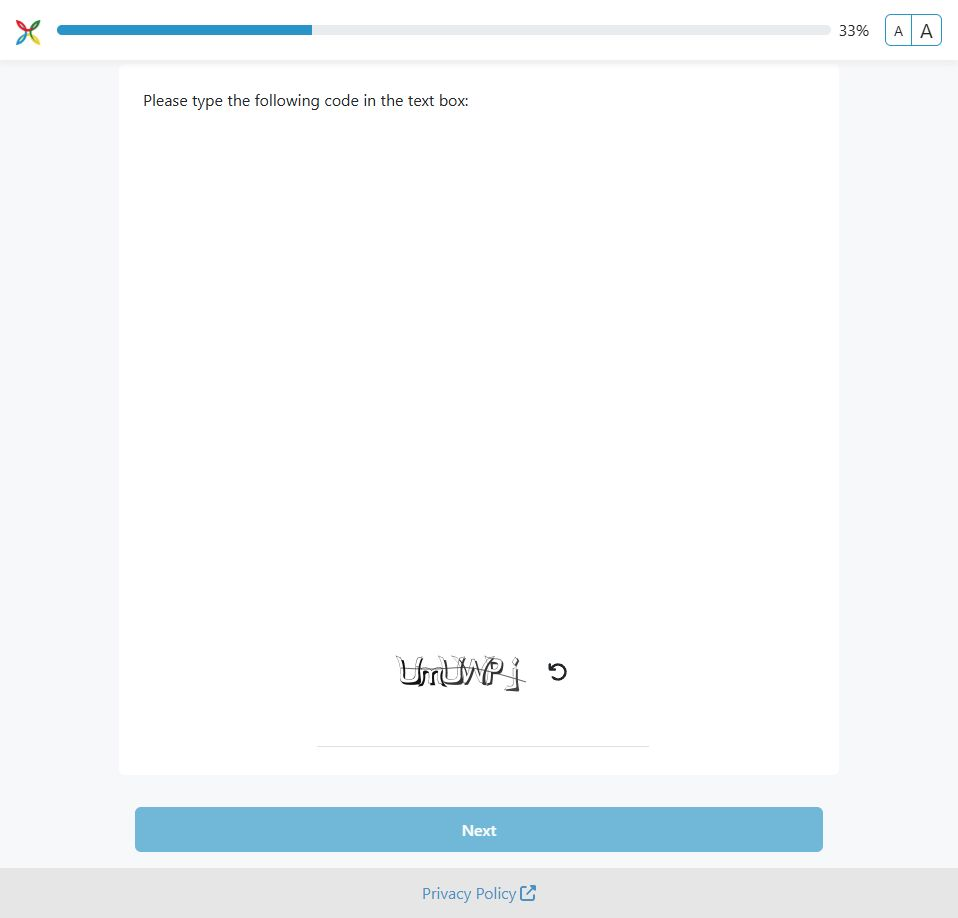
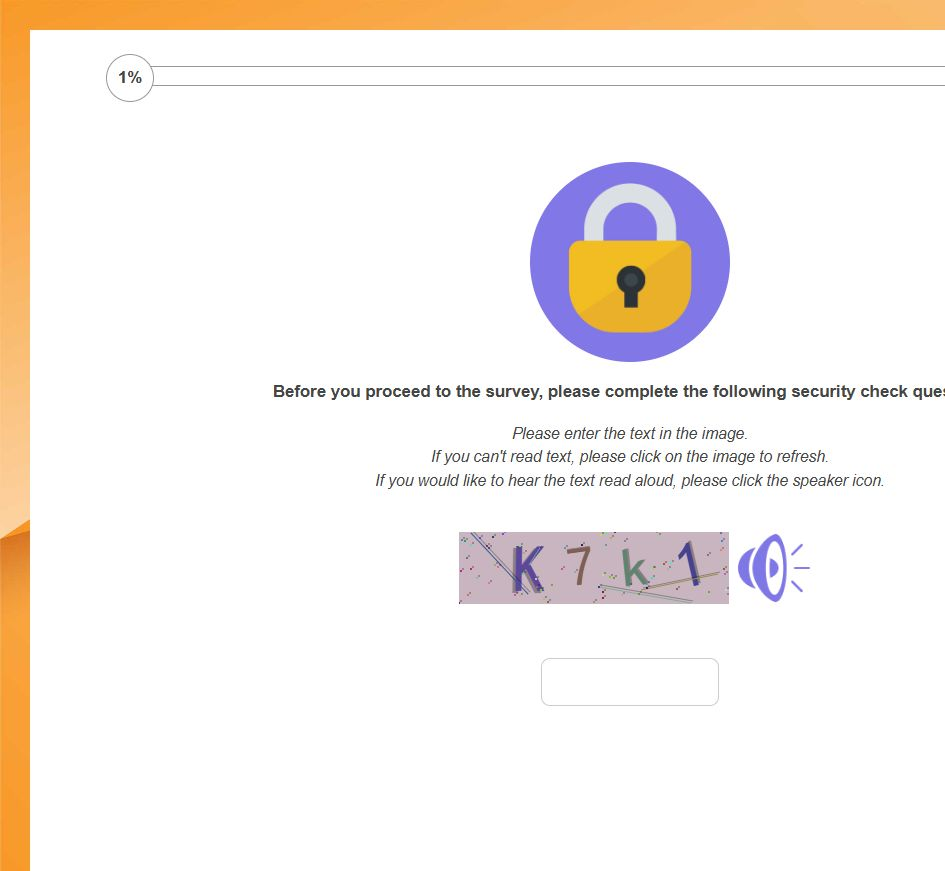
fixed f-string bug, enhanced formatting eedback loop

diff --git a/error_handling/CAPTCHA_solve.py b/error_handling/CAPTCHA_solve.py
@@ -35,6 +35,9 @@ async def identify_captcha(ai_key, session):
     2. Identify if there is a CAPTCHA, and if so, what type of captcha is present.
     3. Exit and output with a return code as below
 
+    #CONSTRAINTS:
+    Do not scroll, click on any button, or navigate in any way. Your goal is only to identify any captcha in the currently visible browser page.
+
     #RETRUN CODES:
     - 0: No CAPTCHA challenge available.
     - 1: Normal Captcha (Distorted text on image)
@@ -49,7 +52,7 @@ async def identify_captcha(ai_key, session):
     tools_available = format_tools_advertisement((await session.list_tools()).tools)
     while True:
         chat = client.chat.completions.create(
-            model = "deepseek/deepseek-v4-flash",
+            model = "openai/gpt-oss-120b",
             messages = messages,
             tools=tools_available,
             tool_choice="auto"
@@ -109,7 +112,7 @@ async def solve_drag_drop_captcha(api_key): #need toolos: readfile (bytes)
 
     while True:
         chat = client.chat.completions.create(
-            model = "deepseek/deepseek-v4-flash",
+            model = "openai/gpt-oss-120b",
             messages = messages,
             tools= {"type":"function",
                     "function":{
@@ -144,8 +147,8 @@ async def solve_drag_drop_captcha(api_key): #need toolos: readfile (bytes)
                     middle, _ = back.split("`")
                     return str(middle)
                 
-                messages.append({"role":"user","content":"""Ouptut must be in JSON format of {"start_position":{"x":int, "y":int},
-                     "end_position":{"x":int, "y":int}} only"""})
+                messages.append({"role":"user","content":f"""Ouptut must be in JSON format of {{"start_position":{{"x":int, "y":int}},
+                     "end_position":{{"x":int, "y":int}}}} only, previous output was of type {type(output)}"""})
                 print(output)
                 print("Drag-Drop Agent Failed to Format. Retrying...")
                 continue
@@ -154,7 +157,9 @@ async def solve_drag_drop_captcha(api_key): #need toolos: readfile (bytes)
             print("Answer Submission (Interface) Agent Called Tool: %s"%tool_name)
             arguments = json.loads(tool_calls[0].function.arguments)
             if tool_name == "ReadFile":
-                pass #CRITICAL: TO EDIT
+                with open(arguments["file_path"], "r") as image_file:
+                    content = image_file.read()
+                messages.append({"role":"tool","tool_call_id":tool_calls[0].id, "content":content})
 
 async def solve_captcha_auto(captcha_key, ai_key, session, captcha_type):
     solver = TwoCaptcha(captcha_key)
@@ -195,14 +200,14 @@ async def solve_captcha_auto(captcha_key, ai_key, session, captcha_type):
 
     #OUTPUT:
     Return ONLY a valid JSON object:
-    {"return_code":int}
+    {{"return_code":int}}
     **Do not provide commentary or explanations.**
 """},
     {"role":"user","content":result}]
     tools_available = format_tools_advertisement((await session.list_tools()).tools)
     while True:
         chat = client.chat.completions.create(
-            model = "deepseek/deepseek-v4-flash",
+            model = "openai/gpt-oss-120b",
             messages = messages,
             tools=tools_available,
             tool_choice="auto"
@@ -217,7 +222,7 @@ async def solve_captcha_auto(captcha_key, ai_key, session, captcha_type):
             try:
                 model_output = int(json.loads(chat.choices[0].message.content).get("return_code"))
             except:
-                messages.append({"role":"user","content":"""Output must be in JSON format of {"return_code":int} only!"""})
+                messages.append({"role":"user","content":f"""Output must be in JSON format of {{"return_code":int}} only, previous output was of type {type(model_output)}!"""})
                 print("CAPTCHA Solver Agent Failed to Format. Retrying...")
                 continue
 

diff --git a/interface/interface_agent.py b/interface/interface_agent.py
@@ -71,7 +71,7 @@ async def submit_answer(answer, session, api_key): #the answer variable is a lis
                     middle, _ = back.split("`")
                     return_code = int(ast.literal_eval(middle).get("return code"))
                     return return_code
-                messages.append({"role":"user","content":"""Ouptut must be in JSON format of {"return code":str} only"""})
+                messages.append({"role":"user","content":f"""Ouptut must be in JSON format of {{"return code":str}} only, previous output was of type {type(output)}"""})
                 print(output)
                 print("Answer Submission Agent Failed to Format. Retrying...")
                 continue
@@ -142,7 +142,7 @@ async def extract_question(api_key, session):
             try:
                 model_output = json.loads(chat.choices[0].message.content)
             except:
-                messages.append({"role":"user","content":"""Output must be in JSON format of {"question":str, "type":str,"options": list or null} only!"""})
+                messages.append({"role":"user","content":f"""Output must be in JSON format of {{"question":str, "type":str,"options": list or null}} only, previous output was of type {type(model_output)}!"""})
                 print("Question Extractor Agent Failed to Format. Retrying...")
                 continue
             return model_output

diff --git a/main.py b/main.py
@@ -1,8 +1,8 @@
 #environment variable names are captchaAPIkey and openRouterAPIkey
 
 import sys
-sys.path.append("C:\\Users\\User\\WebSlave\\response")
-sys.path.append("C:\\Users\\User\\WebSlave\\interface")
+sys.path.append("C:\\Users\\User\\ThunderForm\\response")
+sys.path.append("C:\\Users\\User\\ThunderForm\\interface")
 import asyncio
 import json
 

diff --git a/README.md b/README.md
@@ -1,4 +1,4 @@
-# WebSlave
+# ThunderForm
 
 WebSlave is an **autonomous survey completion and form filling agent** which helsp users fill up long, tedious forms with minimum human intervention. The form is filled using information provided by the user in the _my_profile.txt_ file (under the _response_ folder), or hypothetically synthesised by the agent.
 
